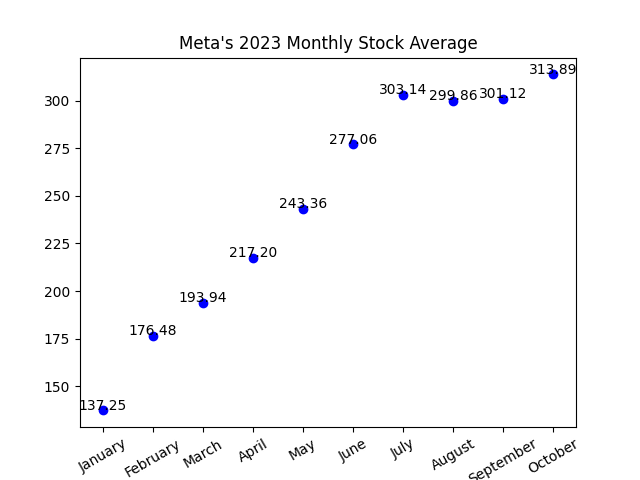
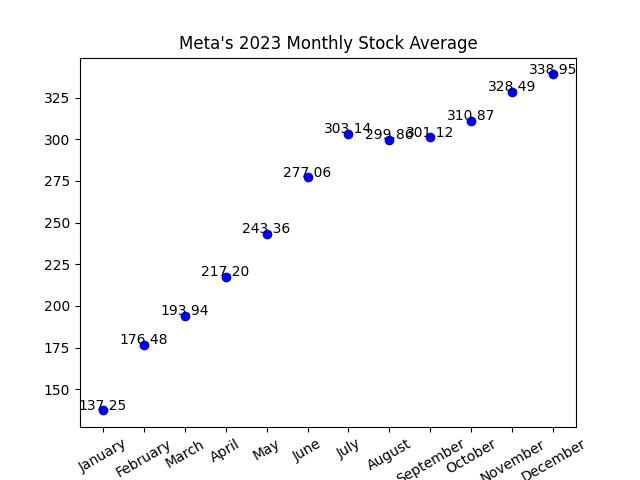
Added 2023 EOY Data and refactored code

diff --git a/analysis.py b/analysis.py
@@ -29,15 +29,15 @@ def plotYearlyAvgs(df):
         plt.close()
 
 
-def plotOctNovDifference(df):
+def plotMonthDifference(df, monthRange):
 
     # Calculate the difference between average monthly closing stock prices
     # for Oct and Nov and store in new Column
     df["Month"] = pd.to_datetime(df['Date'], format='%Y-%m').dt.month
-    df_fall = df[df["Month"].isin([10,11])]
-    df_fall = df_fall[df_fall['Year']<2023]
+    df_fall = df[df["Month"].isin(monthRange)]
+    df_fall = df_fall[df_fall['Year']<2024]
     df_fall_diff = df_fall.groupby('Year')['Average_Close'].diff().dropna().reset_index(name='Difference')
-    df_fall_diff["index"] = [2012+i for i in range(11)]
+    df_fall_diff["index"] = [2012+i for i in range(12)]
 
     # Plot results
     plt.bar(df_fall_diff["index"], df_fall_diff["Difference"])
@@ -45,15 +45,25 @@ def plotOctNovDifference(df):
         sign = -1.5 if v<0 else 0.75
         plt.text(i+2012, v + sign, "%.2f" %v, ha="center")
     plt.ylim(min(df_fall_diff["Difference"])-3, max(df_fall_diff["Difference"])+3)
-    plt.title(f'Meta\'s Difference in Average Closing Stock Price Between Oct and Nov')
-    plt.savefig(f'plots/OctNovDifferenceGraph.png')
+
+    month1, month2 = "InvalidMonth", "InvalidMonth"
+    match monthRange[0]:
+        case 10:
+            month1, month2 = "Oct", "Nov"
+        case 11:
+            month1, month2 = "Nov", "Dec"
+        case default:
+            print("Pick a valid month range")
+    plt.title(f'Meta\'s Difference in Average Closing Stock Price Between {month1} and {month2}')
+    plt.savefig(f'plots/{month1}{month2}DifferenceGraph.png')
     plt.close()
  
 
 def main():
     df = loadData(stock_data_file)
     df = findAvgCloseByMonth(df)
-    plotOctNovDifference(df)
+    plotMonthDifference(df, [11,12])
+    plotMonthDifference(df, [10,11])
     plotYearlyAvgs(df)
 
 if __name__=="__main__": 
